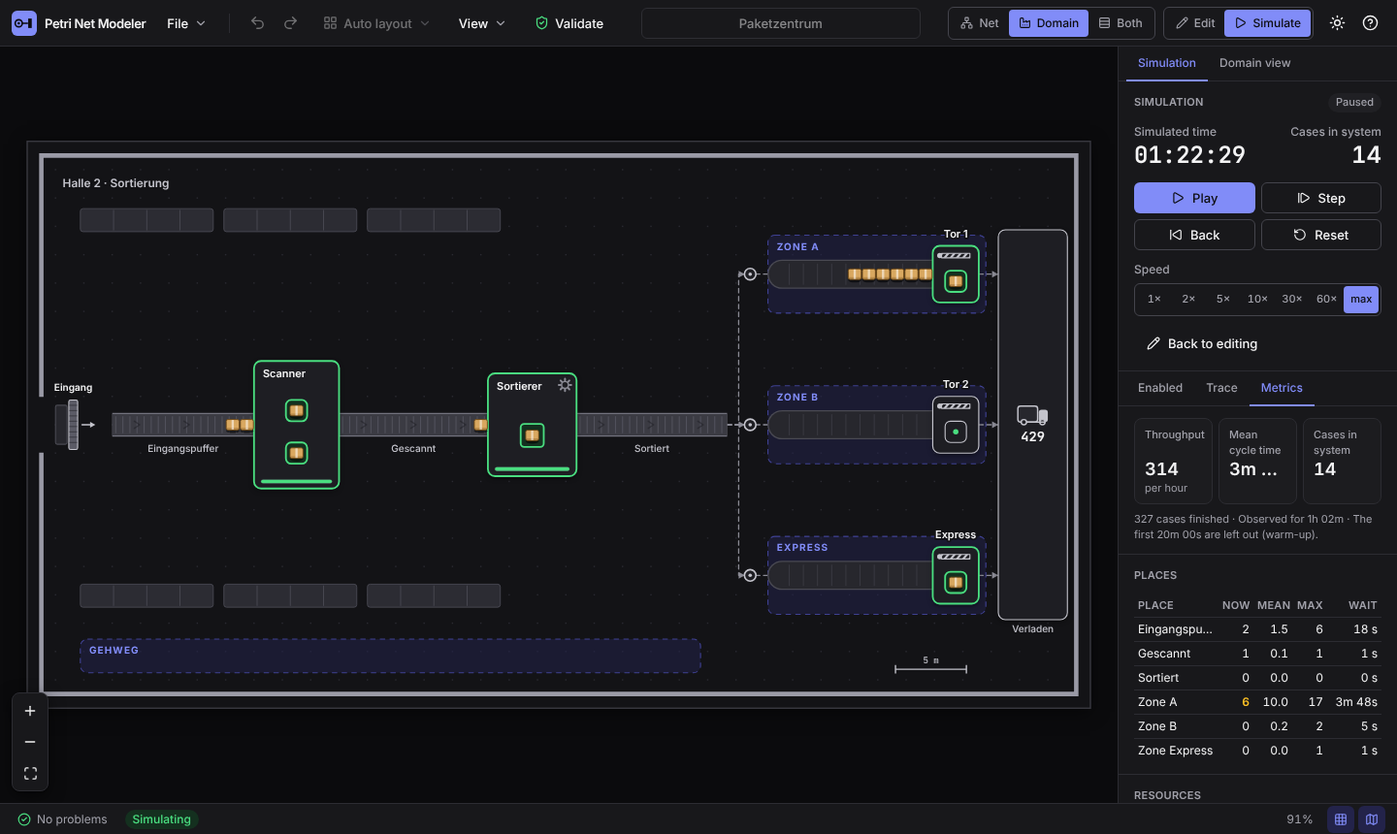
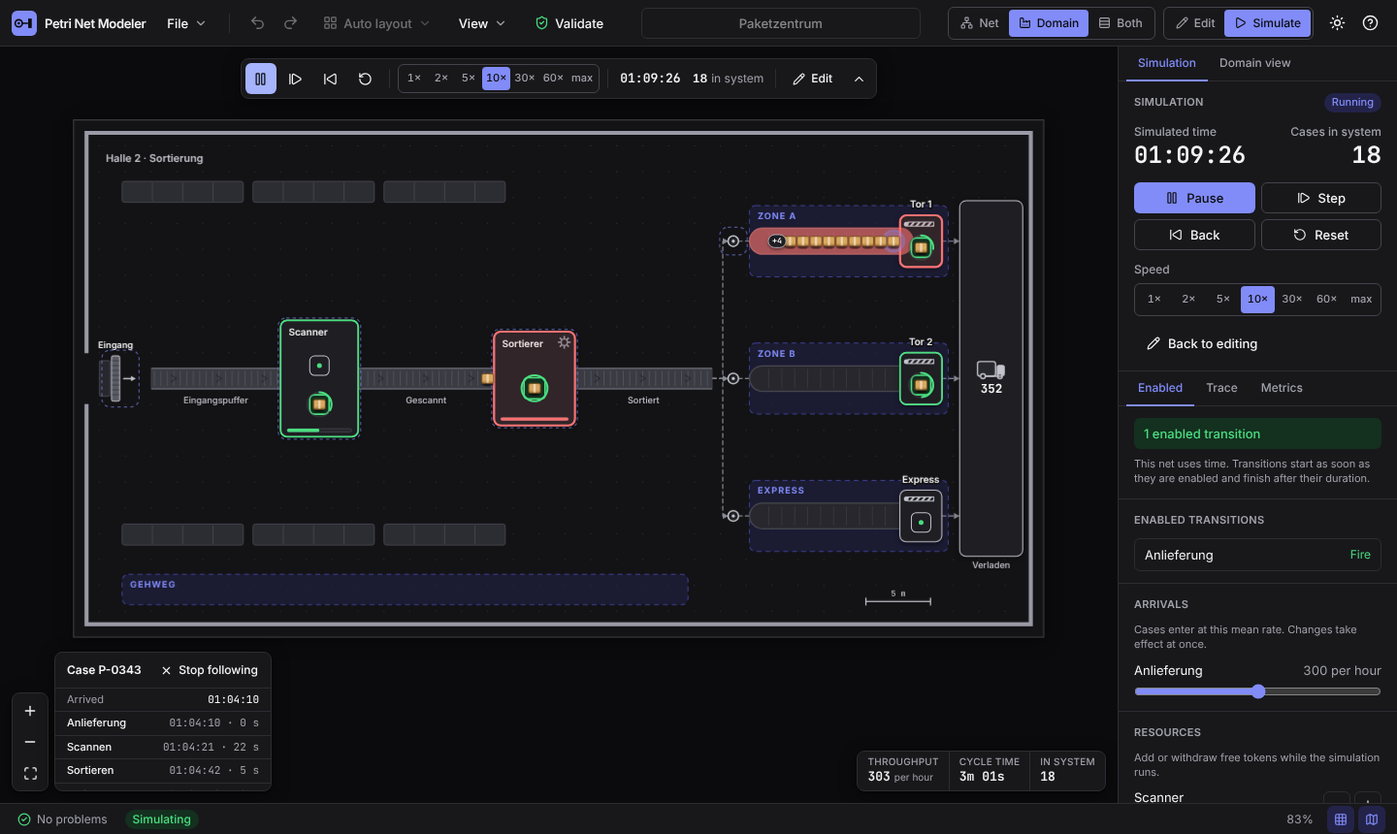
Document the animation, add ADR 0009 and release 0.6.0
The section Animation in docs/domain-view.md describes layout, motions, the log
of handled events, states and colors, drawing and the controls. ADR 0009
records why the picture follows the difference of layouts. README, CHANGELOG
and the plans are updated and the screenshots show the running hall and floor
plan. The case card is part of the fit.

Claude-Session: https://claude.ai/code/session_01SKPfC4GpEG5HTvHqWr36zS

diff --git a/apps/web/e2e/domain-simulation.spec.ts b/apps/web/e2e/domain-simulation.spec.ts
@@ -87,10 +87,24 @@ test('a click on a case follows it and shows its steps', async ({ page }) => {
   await expect(card).toBeVisible();
   await expect(page.getByTestId('domain-case-title')).toHaveText(`Case ${id}`);
   await expect(page.getByTestId('domain-case-step').first()).toBeVisible();
-  // The card does not cover the picture: it sits below the sheet.
-  const cardBox = await card.boundingBox();
-  const sheetBox = await canvas.boundingBox();
-  expect(cardBox && sheetBox && cardBox.x >= sheetBox.x).toBe(true);
+  // The card does not cover the picture: the sheet makes room for it.
+  await expect
+    .poll(
+      async () => {
+        const cardBox = await card.boundingBox();
+        const [left, top] = await sheetToScreen(canvas, 0, 0);
+        const [right, bottom] = await sheetToScreen(canvas, 1200, 640);
+        if (!cardBox) return false;
+        return (
+          cardBox.x >= right ||
+          cardBox.x + cardBox.width <= left ||
+          cardBox.y >= bottom ||
+          cardBox.y + cardBox.height <= top
+        );
+      },
+      { timeout: 5000 },
+    )
+    .toBe(true);
 
   // The followed case moves with the run: its steps grow.
   const steps = await page.getByTestId('domain-case-step').count();

diff --git a/apps/web/src/components/domain/domain-case-card.tsx b/apps/web/src/components/domain/domain-case-card.tsx
@@ -23,7 +23,8 @@ export function DomainCaseCard({
   const arrival = trail.find((entry) => entry.type === 'spawn');
   return (
     <section
-      className="absolute bottom-3 left-14 z-10 flex max-h-[min(14rem,45%)] w-60 flex-col rounded-lg border border-border bg-surface shadow-panel"
+      className="absolute bottom-3 left-14 z-10 flex h-[min(9rem,45%)] w-56 flex-col rounded-lg border border-border bg-surface shadow-panel"
+      data-domain-overlay="bottom"
       aria-label={en.domain.followCases}
       data-testid="domain-case-card"
       data-case={caseId}

diff --git a/docs/domain-view.md b/docs/domain-view.md
@@ -186,7 +186,8 @@ selection without rebuilding the scene.
 Marking: tokens of places with a path are drawn as sprites along it, `pool`, `source` and `sink` show a number, resource
 cells show free (a green dot), busy (a green frame with the case) or not available (crossed). In the editor the view
 shows the initial marking; while simulating it shows the current marking and the firings under way as busy cells, and
-the card of a transition with a firing gets a green frame. There is no animation yet.
+the card of a transition with a firing gets a green frame. `buildScene` shows one state, as a picture. The running view
+uses the animation below instead.
 
 ## In the app
 
@@ -202,9 +203,85 @@ the card of a transition with a firing gets a green frame. There is no animation
   (theme, name, entity, canvas size), the entry of the selected element and the whole mapping as JSON with live checks.
   Applying the JSON replaces the view in one undo step.
 
+## Animation
+
+While a simulation runs, the view shows every event of the stream as a movement or a visible change, and the
+simulator never waits for it. The pieces are pure functions in `@pnm/domain`; the app only feeds them and draws.
+
+| Function                                        | What it does                                                                                                         |
+| ----------------------------------------------- | -------------------------------------------------------------------------------------------------------------------- |
+| `layoutTokens(net, view, state)`                | Where every token stands: on a belt, a lane or a buffer, on the slot of a firing, or on a route.                     |
+| `applyEvents(prev, events, before, after, ...)` | Turns a bundle of events into motions, flashes and counters, from the layout before and after the bundle.            |
+| `sampleSprites(layout, anim, now, simTime)`     | The sprites at one moment: resting ones at their place, moving ones on their route (`sampleTokens` gives positions). |
+| `buildStaticScene` and `buildDynamicScene`      | The part of the picture that depends on net and view only, and the part that changes every frame.                    |
+| `stationStatus`, `queueLevel`, `stationInfos`   | Free, busy, blocked or starved stations, and the yellow and red of queues.                                           |
+| `caseTrail`, `caseActivities`                   | The steps of one case in the stream, for following a case.                                                           |
+
+**Tokens and their identity.** A token on a place is known by its `TokenMeta.id` from the simulation state (the view of
+the simulation carries the metadata of all tokens next to the marking). While a firing runs, its cases are not on a
+place: they stand on the slot of the firing under the key `f<firing>:<case>`. Resource tokens have no sprite; they are
+the cells of the slots.
+
+**Placement.** On a belt, lane or buffer the tokens stand from the head backwards, 16 px apart, the oldest at the head.
+What does not fit is stacked at the start behind a counter `+n`. A firing puts the cases it holds on its slot (several
+cases slightly apart). On a waypoint that only lets cases pass (`pass: true`) the case travels along the route from the
+belt before, over the connectors and the waypoint, to the belt behind, in proportion to the simulation time of the
+firing. Pools, sources and sinks are numbers.
+
+**From event to picture.** The motion of a token is the difference between the layout before and after a bundle,
+linked through the events:
+
+| Event                          | What is shown                                                                                                                |
+| ------------------------------ | ---------------------------------------------------------------------------------------------------------------------------- |
+| `spawn` through a door or dock | The door flashes. The case appears there and moves on with the `complete` of the arrival.                                    |
+| `start`                        | The case moves from its place along the connector to the slot of the station. The slot turns busy and a progress ring fills. |
+| `complete`                     | The case moves from the slot along the connector onto the next belt, to its spot at the end of the queue.                    |
+| `complete` into a sink or pool | The case moves into it and disappears; the counter counts up when it arrives.                                                |
+| `marking-edited`               | The place flashes; tokens that were added or removed appear or vanish.                                                       |
+| anything at a `hidden` element | Nothing is drawn; the log notes it as `hidden`.                                                                              |
+
+Chains inside one bundle (a case that is taken again at once) become one route, and the move belongs to the last event
+of the chain; the others light up their station. A move follows the connector of the view (`arcs`, key
+`<source>><target>`), else a straight line, and lasts 300 ms of wall-clock time with ease-in-out, whatever the speed
+of the simulation. At most 60 tokens move at a time; further ones jump. A token that is moved again while it is under
+way continues from where it is. Speed _max_ and `prefers-reduced-motion` make every duration 0: tokens jump and nothing
+flashes, but counters, colors and cells follow the events all the same.
+
+**Log of handled events.** `AnimationState.handled` lists what the renderer did with every event that concerns a visible
+element: `motion`, `flash`, `counter` or `hidden`. Every motion, flash and counter carries the id of the event that
+caused it. The tests compare this log with the event stream (acceptance A2): over 30 simulated minutes of the parcel
+center, in bundles from 0.4 s to 90 s, no event is lost and no animation has no event.
+
+**States and colors.** A station is _busy_ when a slot is in use (green frame), _blocked_ when all slots are in use and
+cases wait in front of it (red frame and tint, red bar), _starved_ when nothing is in use and nothing waits (neutral) and
+_free_ otherwise. A queue, belt or buffer that holds cases turns yellow from 6 and red from 10 tokens; the limits are
+those of the key figure settings (_Queue highlighting_). A room of a `rooms` transition lights up while one of its slots
+is in use. Firings show a ring around the slot (or a bar under a desk or table) that fills with the simulation time.
+
+**Drawing.** The static part (sheet, scenery, belts, cards, labels) is rendered once into an offscreen canvas and redrawn
+80 ms after the last change of the zoom (scaled in between), the dynamic part is drawn every frame on top. Sprites come
+from a cache of pre-rendered images. The loop of `requestAnimationFrame` only runs while the simulation plays or
+something moves, otherwise the view rests. With 200 tokens, layout, animation and the dynamic scene take about 1 ms per
+bundle and the frame callback about 1 ms (measured in Node and in Chromium, see ADR 0009).
+
+## In the app (simulation)
+
+- A floating bar at the top of the view starts the simulation (_Simulate_) and, while it runs, offers play and pause,
+  step, back, reset, the speed (1x to 60x, max), the clock, the cases in the system and _Edit_. It uses the same actions
+  and shortcuts as the simulation panel. A small button hides it together with the key figures.
+- The strip at the bottom right shows throughput per hour, mean cycle time and cases in the system (with a note during
+  the warm-up). The picture is fitted so that the bar, the strip, the zoom buttons and the case card do not cover it.
+- The hover card of a belt shows the waiting cases, the mean wait and whether it is getting long; the card of a station
+  its state, the slots in use, the waiting cases and the use of its resource; the card of a resource the free tokens.
+- A click on a case follows it: its sprite gets a ring, the stations it has been at a light frame, and a card at the
+  bottom left lists its steps with the times. _Stop following_, a second click on the case or `Esc` let go.
+- A click on a station, door or other transition selects it and, if it is enabled, fires it (with several bindings a
+  list opens next to it). While simulating the net cannot be edited, so `Del` deletes nothing.
+
 ## Limits
 
-This is the first step (D1): the view is static. Missing so far are the animation of firings and cases (D2), the
-generation of a mapping by a language model (D3) and editing by dragging in the view (D4). Cases are not tracked
-individually in the picture, tokens of JSON nets show as plain cases, and a transition's `slots` have no order
-beyond their index.
+The generation of a mapping by a language model (D3) and editing by dragging in the view (D4) are still missing. Tokens
+of JSON nets show as plain cases, a transition's `slots` have no order beyond their index, and a firing that holds no
+case (work on resources only) is shown as a busy slot without a sprite. Stepping back or resetting snaps the picture to
+the state instead of playing backwards. The motion of a token that is taken again within one bundle is attributed to the
+last event of the chain.

diff --git a/docs/adr/0009-domain-animation.md b/docs/adr/0009-domain-animation.md
@@ -1,0 +1,67 @@
+# ADR 0009: The domain view animates by the difference of layouts, linked through the events
+
+Status: accepted · Date: 2026-10-28
+
+## Context
+
+The static domain view of 0.5.0 (ADR 0008) shows a state. Step D2 makes it show the run: cases that move along belts,
+stations that are busy or blocked, queues that turn yellow and red, counters that count up. Three things must hold. The
+simulator runs in a Web Worker and delivers bundles of events at its own pace; it must never wait for the picture. The
+picture must not invent anything: what moves must be caused by an event, and an event at a visible element must show.
+And hundreds of cases at 60 frames per second must stay cheap in a browser, with the same code usable in tests.
+
+## Decision
+
+- **Layout difference instead of choreography.** The picture does not script a sequence of moves per event type. A pure
+  function, `layoutTokens`, places every token of a simulation state (on a belt from the head backwards, on the slot of
+  its firing, on a route). `applyEvents` takes the layouts before and after a bundle and makes a motion for every token
+  whose place changed. The events only _link_ the two: a `start` takes a token from its place onto a slot, a `complete`
+  puts it on the next place, and chains inside one bundle become one route. Whatever the bundle size (0.1 s or 90 s) the
+  picture ends in the layout of the state, and the motions only differ in how much is shown on the way.
+- **Token identity from the simulation.** Tokens on places are known by `TokenMeta.id`. While a firing runs its cases
+  are on no place, so the sprite continues under `f<firing>:<case>`. The view of the simulation (`SimView.meta`) carries
+  the metadata of all tokens next to the marking; a state without metadata gets ids made from place and position.
+- **A log of handled event ids.** The animation state records for every event at a visible element what became of it:
+  `motion`, `flash`, `counter` or `hidden`, and every motion, flash and counter carries the id of its event. This is the
+  proof of acceptance A2 and a unit test over 30 simulated minutes of the parcel center, in several bundle sizes: no
+  event is lost, no animation is without an event. Elements that are `hidden` in the mapping create nothing, which the
+  log states instead of staying silent.
+- **Static and dynamic layer.** The part of the picture that depends on net and mapping only (sheet, scenery, belts,
+  cards, connectors, labels, hit regions) is `buildStaticScene` and is rendered once into an offscreen canvas, again 80 ms
+  after the last change of the zoom, the palette or the net. Everything that changes (queue colors, station states,
+  cells, rings, counters, sprites, flashes, the followed case, hover) is `buildDynamicScene`, built every frame from the
+  layout and the animation state. `buildScene` of D1 stays as it is for a picture of one state. Sprites are drawn from a
+  cache of pre-rendered images; the painter takes the cache as a parameter and touches no DOM.
+- **The loop rests.** `requestAnimationFrame` runs only while the simulation plays or something moves, flashes or counts
+  up. Everything the frame reads is in refs and plain objects, so a frame never waits for React or the worker.
+  Bundles are processed synchronously on arrival, in order; the work per bundle is small and bounded: at most 60
+  simultaneous motions (further ones jump but are logged), one flash per element, a log cut to a fixed length.
+- **Wall-clock time for moves, simulation time for progress.** A move lasts 300 ms of wall-clock time at every speed.
+  Progress rings and cases on a route (`pass`) follow the simulation time, which the animator extrapolates between two
+  bundles from the speed (never past the next event and never more than a quarter of a second ahead).
+- **Less motion on request.** Speed _max_ and `prefers-reduced-motion` give every duration 0: tokens jump, nothing
+  flashes, counters show the new number at once. Colors, cells and counters still follow the events.
+- **Station state and queue colors from existing facts.** A station is blocked when all its slots are in use and cases
+  wait in front of it; queues turn yellow and red at the limits of the key figure settings. Nothing is added to the net.
+- **Following a case from the stream.** `caseTrail` filters the event stream for one case. The card, the ring around
+  the sprite and the frames around the stations visited are built from it, so following needs no state in the engine.
+- **The view reads, the net decides.** The animator only reads the simulation state and events. A test runs the same
+  seed in different bundle sizes with layout, animation and frames after every bundle and compares the event stream and
+  the CSV and XES exports with a run without the view (acceptance A3).
+
+## Consequences
+
+- A case that is taken again within one bundle (it leaves a station and enters the next at the same instant) moves
+  once, and the move is attributed to the last event of the chain; the first one only lights up its station. The log
+  still has an entry for both.
+- Stepping back and resetting have no events to link, so the picture snaps to the state. Playing backwards would need
+  the layouts of earlier states and was not worth it.
+- A firing that holds no case (work on resources only) shows a busy slot and a ring but no sprite.
+- A slot turns busy when the firing starts, the case arrives 300 ms later: for a moment the slot is busy and empty.
+- The net editor behind the domain view still receives every state change. It stops its token flights while it is
+  hidden, but a React Flow tree with hundreds of nodes would still cost time at 25 updates per second; the examples are
+  far from that.
+- Measured with 200 tokens (a ring of 20 stages): layout, animation and dynamic scene take about 1 ms per bundle in Node
+  (budget 8 ms). In headless Chromium without a GPU the frame callback with 60 moving sprites takes about 1 ms, and the
+  page draws about 60 frames per second at 10x and about 55 at 60x. Before the limit of one flash per element (at 60x
+  hundreds of flashes were alive at once) the same callback took 5.5 ms and the page fell to 17 frames per second.

diff --git a/README.md b/README.md
@@ -21,22 +21,23 @@ logic can later run in a command line tool, behind an API, or inside an LLM proc
 
 <picture>
   <source media="(prefers-color-scheme: dark)" srcset="docs/images/domain-hall-dark.png">
-  <img alt="The domain view of the parcel center as a hall: belts with parcels, scanner, sorter, loading gates and trucks, while the simulation runs" src="docs/images/domain-hall-light.png">
+  <img alt="The running domain view of the parcel center: parcels on the belts, the scanner and a gate blocked and a queue turning red, the control bar, key figures and the card of a followed parcel" src="docs/images/domain-hall-light.png">
 </picture>
 
 <picture>
   <source media="(prefers-color-scheme: dark)" srcset="docs/images/domain-office-dark.png">
-  <img alt="The domain view of the smart office as a floor plan: rooms, desks, meeting tables, turnstiles and people, while the simulation runs" src="docs/images/domain-office-light.png">
+  <img alt="The running domain view of the smart office as a floor plan: people at desks and in meeting rooms, turnstiles, the coffee machine, the control bar and the card of a followed person" src="docs/images/domain-office-light.png">
 </picture>
 
-**Status: 0.5.0 (milestones M0 to M3, the UI polish step and D1, the domain view without animation).** The editor handles place/transition nets (P/T nets) and **JSON nets**:
+**Status: 0.6.0 (milestones M0 to M3, the UI polish step, D1 and D2: the domain view, now animated).** The editor handles place/transition nets (P/T nets) and **JSON nets**:
 tokens are JSON values, places carry types as JSON Schema, input arcs bind variables, and guards and output
 inscriptions are [JSONata](https://jsonata.org/) expressions. See [`PLAN.md`](PLAN.md) for the overall plan and
 [`docs/plan/M0-M1_Umsetzungsplan.md`](docs/plan/M0-M1_Umsetzungsplan.md),
 [`docs/plan/M2_Umsetzungsplan.md`](docs/plan/M2_Umsetzungsplan.md),
 [`docs/plan/UI-Polish_Umsetzungsplan.md`](docs/plan/UI-Polish_Umsetzungsplan.md) and
 [`docs/plan/M3_Umsetzungsplan.md`](docs/plan/M3_Umsetzungsplan.md) and
-[`docs/plan/D1_Umsetzungsplan.md`](docs/plan/D1_Umsetzungsplan.md) for the plans of the increments (in German).
+[`docs/plan/D1_Umsetzungsplan.md`](docs/plan/D1_Umsetzungsplan.md) and
+[`docs/plan/D2_Umsetzungsplan.md`](docs/plan/D2_Umsetzungsplan.md) for the plans of the increments (in German).
 
 ## Features
 
@@ -88,7 +89,21 @@ Domain view (0.5.0, see [docs/domain-view.md](docs/domain-view.md)):
   shows the current marking and the firings under way. Pan, zoom (wheel, pinch, buttons) and fit work as in the editor.
 - The _Domain view_ tab shows the problems with click-to-select, repairs a view after the net has changed (_Fill
   missing entries_, _Update hash_) and edits the mapping as JSON with live checks.
-- Not yet: animation of cases, generation by a language model and editing by dragging in the picture (steps D2 to D4).
+- Not yet: generation by a language model and editing by dragging in the picture (steps D3 and D4).
+
+Animation (0.6.0, see the section _Animation_ in [docs/domain-view.md](docs/domain-view.md)):
+
+- The domain view runs the simulation: every event of the stream becomes a movement or a visible change. Cases move
+  along belts and connectors, stations show whether they are free, busy or blocked, slots show a progress ring, queues
+  turn yellow and red when they grow (with the limits of the key figure settings), counters count up when a case
+  arrives. The simulator never waits for the picture; speed _max_ and `prefers-reduced-motion` make cases jump.
+- A bar in the view starts and controls the simulation (play, step, back, reset, speed, clock) and a strip shows
+  throughput, cycle time and cases in the system. Hover cards tell how a station or queue is doing.
+- A click on a case follows it (a ring, a card with its steps and times); a click on an enabled station fires its
+  transition.
+- The picture is rendered in two layers (the static one offscreen) and the loop rests when nothing moves; 200 cases
+  take about a millisecond per frame. A test compares a log of what the picture did with the event stream, and the
+  same seed still gives the same events and the same exports with the view running.
 
 JSON nets (switch the net class in the properties panel):
 

diff --git a/CHANGELOG.md b/CHANGELOG.md
@@ -2,6 +2,38 @@
 
 All notable changes are documented here. The format follows [Keep a Changelog](https://keepachangelog.com/en/1.1.0/).
 
+## 0.6.0: Animated domain view
+
+Milestone D2. The file format stays `1.0`; nets and mappings of 0.5.0 work unchanged.
+
+### Added
+
+- `@pnm/domain`: `layoutTokens` (where every token stands), `applyEvents` (motions along the connectors, flashes and
+  counters from the events of a bundle, with a log of handled event ids), `sampleSprites` and `sampleTokens`,
+  `buildStaticScene` and `buildDynamicScene` (the picture in two layers), `stationStatus`, `queueLevel` and
+  `stationInfos` (free, busy, blocked, starved; yellow and red queues), `caseTrail` and `caseActivities`, a sprite cache
+  for the painter, and the new draw commands `ring` and `progress` with a tone.
+- `@pnm/sim`: the view of the simulation carries the metadata of every token (`SimView.meta`), so that the animation can
+  follow tokens by their id.
+- Web app: the domain view runs the simulation. Tokens move along belts and connectors, stations show free, busy and
+  blocked, slots show a progress ring, queues turn yellow and red with the thresholds of the key figure settings, the
+  counters of sinks count up when a case arrives, and elements flash for events that move nothing. Speed _max_ and
+  `prefers-reduced-motion` make tokens jump. The static layer is rendered offscreen and the loop rests when nothing moves.
+- A floating bar in the domain view (_Simulate_, play and pause, step, back, reset, speed, clock, cases, _Edit_, hide), a
+  strip with throughput, cycle time and cases in the system, richer hover cards (state, slots, waiting cases, mean wait,
+  use of resources), following a case by a click (ring, card with its steps, `Esc` lets go), and firing an enabled
+  transition by a click on it, with a list of bindings where there are several.
+- Tests: the A2 log against the event stream, two hours of three nets with layout and animation (A1), the same event
+  stream and exports with the view running (A3), a frame budget for 200 tokens, component tests for the bar, the loop,
+  the order of bundles, following and firing, and Playwright tests for the whole run.
+- Documentation: the section _Animation_ in [docs/domain-view.md](docs/domain-view.md) and ADR 0009.
+
+### Changed
+
+- The fit of the domain view keeps clear of the floating controls (`fitAround`).
+- The net editor stops its token flights while it is hidden behind the domain view.
+- `buildScene` is unchanged and still draws one state; the running view uses the two layers.
+
 ## 0.5.0: Domain view without simulation
 
 Milestone D1. The file format stays `1.0`: `domainView` is an optional field, and nets without it behave as before.

diff --git a/docs/plan/Domaenenansicht_Einordnung.md b/docs/plan/Domaenenansicht_Einordnung.md
@@ -119,8 +119,8 @@ und zeigt alle drei Beispiele. Für die Umsetzung sind diese Punkte wichtig:
 | UI-Polish | Bedienung und Erscheinungsbild (Phase A, B1 bis B6) | fertig (0.3.0) |
 | **M3 Simulation (erweitert)** | Paket `@pnm/sim`: diskrete Ereignissimulation mit Dauern, Prioritäten, Raten, zweiphasigem Schalten, Fall-IDs, Seed, `SimEvent`-Strom, Web Worker. Editor: Abspielen mit Geschwindigkeit, Pause, Einzelschritt, Zurück, Haltepunkte, Animation des Markenflusses im Netz, Trace-Panel. Export CSV (Event Log) und XES. Modellfelder `timing`, `priority`, `rate`, `role` mit Panel-Feldern. | fertig (0.4.0) |
 | **D1 Abbildung ohne Simulation** | Schema `DomainView`, Prüfung V1 bis V8, generische Abbildung, statische Canvas-Ansicht, drei Testnetze als `.pn.json`, Speicherung unter `domainView`. Abnahme A4, A5. | fertig (0.5.0) |
-| **D2 Animation** | Ansicht hört auf `SimEvent`, Bewegungen, Engpassfarben, Steuerung, Kennzahlen, Inspektor, Hover-Verknüpfung mit dem Netz, Nebeneinander-Modus. Abnahme A1, A2, A3, A9. | nächster Schritt |
-| **D3 LLM-Erzeugung** | Anbieterkonfiguration, Prompt mit Netz, Domänenbeschreibung, Schema und Beispielen, Reparaturschleife (max. 3), Auffüllen, Herkunft je Eintrag. Abnahme A6. | neu |
+| **D2 Animation** | Ansicht hört auf `SimEvent`, Bewegungen, Engpassfarben, Steuerung, Kennzahlen, Inspektor, Hover-Verknüpfung mit dem Netz, Nebeneinander-Modus. Abnahme A1, A2, A3, A9. | fertig (0.6.0) |
+| **D3 LLM-Erzeugung** | Anbieterkonfiguration, Prompt mit Netz, Domänenbeschreibung, Schema und Beispielen, Reparaturschleife (max. 3), Auffüllen, Herkunft je Eintrag. Abnahme A6. | nächster Schritt |
 | **D4 Bearbeiten** | JSON-Editor mit Live-Prüfung, Ziehen von Punkten, Rechtecken und Pfaden, Erkennen veralteter Abbildungen (V7) mit „Ergänzen". Abnahme A7, A8 (Export kommt aus M3). | neu |
 | M4 Austausch | PNML, PNG, TikZ, CLI | verschoben nach D4 |
 | M5 Analyse | Erreichbarkeit, Invarianten, LTLf/DECLARE | unverändert |

diff --git a/PLAN.md b/PLAN.md
@@ -1,6 +1,6 @@
 # Projektplan: Werkzeug zur Modellierung höherer Petri-Netze
 
-Stand: 2026-10-28 · Status: in Umsetzung (M0–M3 und D1 fertig, nächster Schritt D2) · Ergänzt um die Domänenansicht (D1–D5)
+Stand: 2026-10-28 · Status: in Umsetzung (M0–M3, D1 und D2 fertig, nächster Schritt D3) · Ergänzt um die Domänenansicht (D1–D5)
 
 ## 1. Zielbild
 
@@ -169,7 +169,7 @@ Jeder Meilenstein endet mit einem lauffähigen, getesteten Stand.
 ### D1–D4 · Domänenansicht (siehe `docs/plan/Domaenenansicht_Einordnung.md`)
 - D1 Abbildung ohne Simulation (fertig, 0.5.0; siehe `docs/domain-view.md`): Schema `DomainView`, Prüfung V1–V8, generische
   Abbildung, statische Canvas-Ansicht, Speicherung unter `domainView`.
-- D2 Animation: Ansicht hört auf den Ereignisstrom, Steuerung, Kennzahlen,
+- D2 Animation (fertig, 0.6.0; siehe `docs/domain-view.md`): Ansicht hört auf den Ereignisstrom, Steuerung, Kennzahlen,
   Inspektor, Hover-Verknüpfung mit dem Netz, Nebeneinander-Modus.
 - D3 LLM-Erzeugung der Abbildung: OpenAI-kompatibler Anbieter, Prompt mit Netz,
   Domänenbeschreibung, Schema und Beispielen, Reparaturschleife, Auffüllen,
